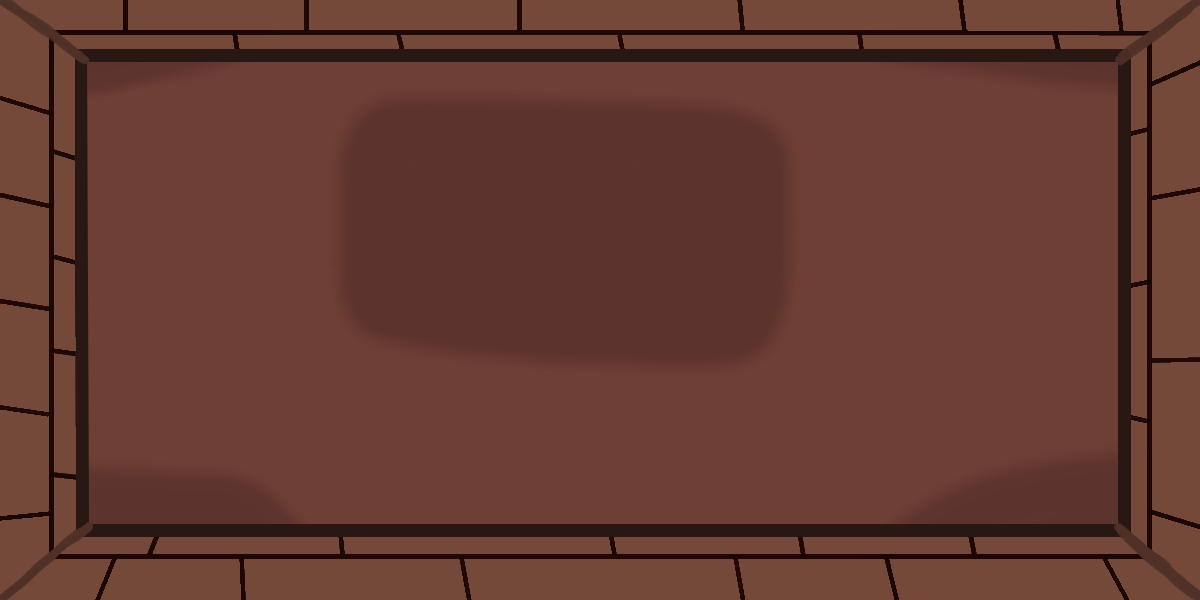
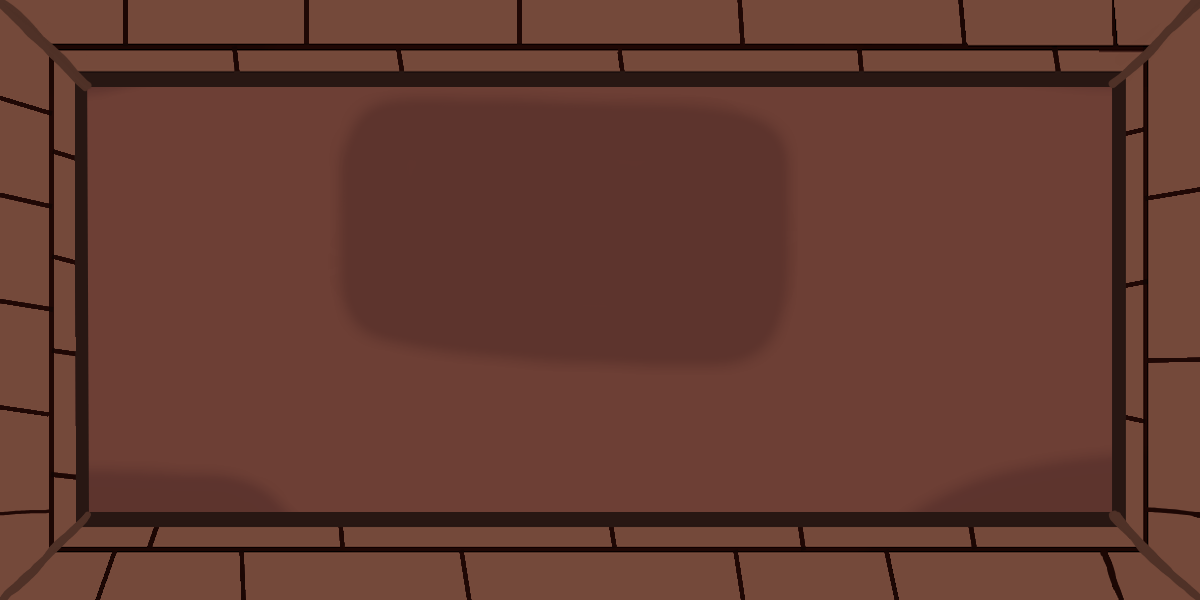
changed door image, and added doors to levelmap with a boolean flag

Changed region(s): [[0.0, 0.0, 1.0, 1.0], [0.9867, 0.96, 1.0, 0.99], [0.9867, 0.0, 1.0, 0.03]]

diff --git a/src/main.ts b/src/main.ts
@@ -312,8 +312,34 @@ let lastDirection = "";
 
 let mapManager = new MapManager;
 
+let basementDoorLeftImage = $.loadImage(0,$.h/2 - 40,"assets/images/areas/basement/door_left.png");
+basementDoorLeftImage.scale = 48;
+let basementDoorRightImage = $.loadImage($.w - 60,$.h/2-30,"assets/images/areas/basement/door_right.png");
+basementDoorRightImage.scale = 48;
+let basementDoorTopImage = $.loadImage($.w/2,0,"assets/images/areas/basement/door_up.png");
+basementDoorTopImage.scale = 48;
+let basementDoorBottomImage = $.loadImage($.w/2,$.h-60,"assets/images/areas/basement/door_bottom.png");
+basementDoorBottomImage.scale = 48;
+
 let basementMapImage = $.loadImage($.w/2,$.h/2,"assets/images/areas/basement/basement.png");
-let basementMap = new LevelMap("basement",basementMapImage);
+let basementMap = new LevelMap("basement",basementMapImage, 
+    {
+        LeftDoor:true,
+        RightDoor:true,
+        TopDoor:true,
+        BottomDoor:true,
+        LeftDoorImage:basementDoorLeftImage,     
+        RightDoorImage:basementDoorRightImage,
+        TopDoorImage:basementDoorTopImage,
+        BottomDoorImage:basementDoorBottomImage
+    });
+/*export interface IMapDoor{
+
+    LeftDoorImage: Stamp,
+    RightDoorImage: Stamp,
+    TopDoorImage: Stamp,
+    BottomDoorImage: Stamp,
+}*/
 
 let isAttacking = false;
 
@@ -364,6 +390,7 @@ function update() {
     }else if(screenManager.currentScreen === "play"){
         mapManager.currentLevelMap = mapManager.findMapByName("basement")!;
         mapManager.currentLevelMap.draw();
+        mapManager.currentLevelMap.drawDoors();
         
         characterManager.currentCharacter!.collider.draw();
         characterManager.currentCharacter!.drawHealthBar()

diff --git a/src/classes/levels/maps/LevelMap.ts b/src/classes/levels/maps/LevelMap.ts
@@ -1,17 +1,34 @@
 import { Stamp } from "../../../../lib/Img.js";
-//import { $ } from "../../../../lib/TeachAndDraw.js";
+import { IMapDoor } from "../../../interfaces/IMapDoor.js";
 
 export class LevelMap{
     public collider:any;
     public name:string;
     public image:Stamp;
+    public doors:IMapDoor;
 
-    constructor(name:string,image:Stamp){
+    constructor(name:string,image:Stamp, doors:IMapDoor){
         this.name = name;
         this.image = image;
+        this.doors = doors;
     }
 
     public draw(){
         this.image.draw();
+    }
+
+    public drawDoors(){
+        if(this.doors.BottomDoor){
+            this.doors.BottomDoorImage.draw();
+        }
+        if(this.doors.TopDoor){
+            this.doors.TopDoorImage.draw();
+        }
+        if(this.doors.LeftDoor){
+            this.doors.LeftDoorImage.draw();
+        }
+        if(this.doors.RightDoor){
+            this.doors.RightDoorImage.draw();
+        }
     }
 }

diff --git a/src/interfaces/IMapDoor.ts b/src/interfaces/IMapDoor.ts
@@ -1,0 +1,12 @@
+import { Stamp } from "../../lib/Img";
+
+export interface IMapDoor{
+    LeftDoor: boolean,
+    RightDoor: boolean,
+    TopDoor: boolean,
+    BottomDoor: boolean,
+    LeftDoorImage: Stamp,
+    RightDoorImage: Stamp,
+    TopDoorImage: Stamp,
+    BottomDoorImage: Stamp,
+}
